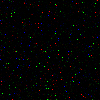
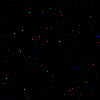
include channels in generation

diff --git a/src/lib.rs b/src/lib.rs
@@ -26,8 +26,8 @@ pub fn image_to_tensor<T: AsRef<std::path::Path>>(path: T, dtype: DType) -> anyh
     Ok(img)
 }
 
-pub fn student_noise(width: usize, height: usize, degrees_of_freedom: f64) -> Vec<f64> {
-    let num_pixels = width * height * 3; // 3 values per pixel (R, G, B)
+pub fn student_noise(width: usize, height: usize, channels: usize, degrees_of_freedom: f64) -> Vec<f64> {
+    let num_pixels = width * height * channels; // 3 values per pixel (R, G, B)
     let student = StudentT::new(degrees_of_freedom).unwrap();
     let mut rng = thread_rng();
 
@@ -46,12 +46,13 @@ pub fn create_rgb_image_from_1d(
     normalized_data: &[f64],
     width: usize,
     height: usize,
+    channels: usize,
     output_path: &str,
 ) {
     // The total number of elements must match width * height * 3 (for R, G, B)
     assert_eq!(
         normalized_data.len(),
-        (width * height * 3) as usize,
+        (width * height * channels) as usize,
         "Data size must match image dimensions"
     );
 

diff --git a/src/main.rs b/src/main.rs
@@ -8,22 +8,20 @@ use rand::Rng;
 
 fn main() -> anyhow::Result<()> {
     
-
-    
     let width = 100;
     let height = 100;
     let degrees_of_freedom = 1.0;
-    let noise = student_noise(width, height, degrees_of_freedom);
+    let noise = student_noise(width, height, 16, degrees_of_freedom);
     let noise = standardize(&noise);
     let channels = unit_vec_to_char(&noise);
-    let img = Tensor::from_vec(channels, (height, width, 3), &Device::Cpu)?
+    let img = Tensor::from_vec(channels, (height, width,16), &Device::Cpu)?
     .permute((2, 0, 1))?
     .to_dtype(DType::F16)?
     .affine(2. / 255., -1.)?
     .unsqueeze(0)?;
 
     println!("tensors noise: {:?}",img);
-    create_rgb_image_from_1d(&noise, width, height, "output.png");
+    create_rgb_image_from_1d(&noise, width, height, 16,"output.png");
 
     let image_path = "test.png";
     let dtype = DType::F16;
